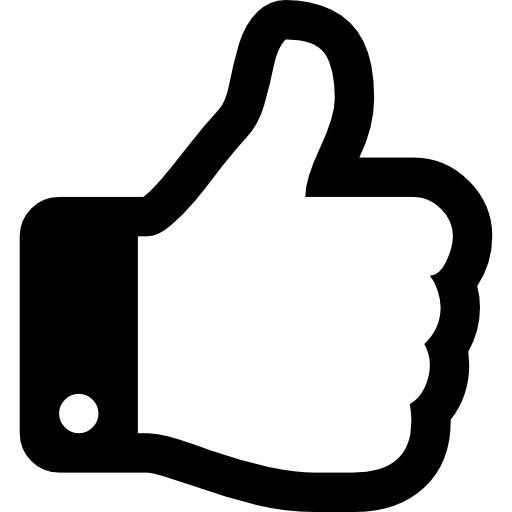
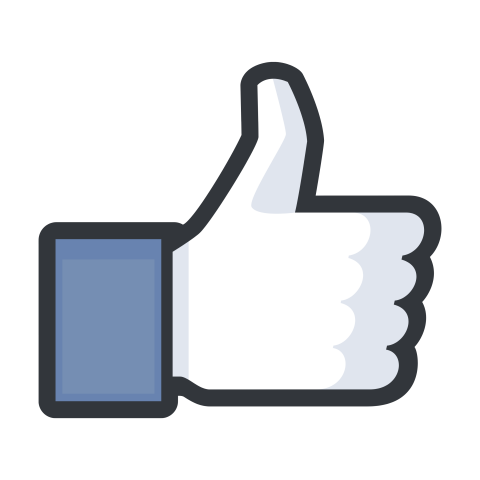
added like button, trying to get mutation to work

diff --git a/src/store/index.js b/src/store/index.js
@@ -5,39 +5,32 @@ export default createStore({
 
     state: {
         postsList: [
-            {id: 1, avatar: "person.png", name: "Andre", date: "25.09.2021", text: "Just trying out this new webpage I found", image: "mountains.jpg"},
-            
-            {id: 2, avatar: "person.png", name: "Jens", date: "01.10.2021", text: "This seems like a nice website, wonder who's designed it!", image: "forest.jpg"},
-
-            {id: 3, avatar: "person.png", name: "Julia", date: "05.10.2021", text: "I wouldn't know. But writing example text like this is kind of exhausting.", image: "Burjkhalifa.jpg"},
-
-            {id: 4, avatar: "person.png", name: "Pia", date: "12.10.2021", text: "Yeah that's right, maybe you should use Lorem ipsum?", image: ""},
-            
-            {id: 5, avatar: "person.png",name: "Amelie", date: "29.10.2021", text: "Lorem ipsum?", image: "Tartu.jpg"},
-
-            {id: 6, avatar: "person.png", name: "Nicklas", date: "01.11.2021", text : "Yeah just like this: Lorem ipsum dolor sit amet, consectetur adipiscing elit, sed do eiusmod tempor incididunt ut labore et dolore magna aliqua.", image: "scorpion.jpg"},
-
-            {id: 7, avatar: "person.png", name: "Dennis", date: "04.11.2021", text : "Damn. I like the way you speak, boy.", image: "tree.jpg"},
-
-            {id: 8, avatar: "person.png", name: "Jana", date: "19.11.2021", text: "Seems like a bunch of gibberish to me.", image: "dog.jpg"},
-
-            {id: 9, avatar: "person.png", name: "Lara", date: "25.11.2021", text : "Yeah guys, let's maybe not?", image: "cat.jpg"},
-
-            {id: 10, avatar: "person.png", name: "Torsten", date: "30.11.2021", text : "That was such a weird exchange.", image: "pool.jpg"}
+            {id: 1, avatar: "person.png", name: "Andre", date: "25.09.2021", text: "Just trying out this new webpage I found", image: "mountains.jpg", likes: 0},            
+            {id: 2, avatar: "person.png", name: "Jens", date: "01.10.2021", text: "This seems like a nice website, wonder who's designed it!", image: "forest.jpg", likes: 0},
+            {id: 3, avatar: "person.png", name: "Julia", date: "05.10.2021", text: "I wouldn't know. But writing example text like this is kind of exhausting.", image: "Burjkhalifa.jpg", likes: 0},
+            {id: 4, avatar: "person.png", name: "Pia", date: "12.10.2021", text: "Yeah that's right, maybe you should use Lorem ipsum?", image: "", likes: 0},
+            {id: 5, avatar: "person.png",name: "Amelie", date: "29.10.2021", text: "Lorem ipsum?", image: "Tartu.jpg", likes: 0},
+            {id: 6, avatar: "person.png", name: "Nicklas", date: "01.11.2021", text : "Yeah just like this: Lorem ipsum dolor sit amet, consectetur adipiscing elit, sed do eiusmod tempor incididunt ut labore et dolore magna aliqua.", image: "scorpion.jpg", likes: 0},
+            {id: 7, avatar: "person.png", name: "Dennis", date: "04.11.2021", text : "Damn. I like the way you speak, boy.", image: "tree.jpg", likes: 0},
+            {id: 8, avatar: "person.png", name: "Jana", date: "19.11.2021", text: "Seems like a bunch of gibberish to me.", image: "dog.jpg", likes: 0},
+            {id: 9, avatar: "person.png", name: "Lara", date: "25.11.2021", text : "Yeah guys, let's maybe not?", image: "cat.jpg", likes: 0},
+            {id: 10, avatar: "person.png", name: "Torsten", date: "30.11.2021", text : "That was such a weird exchange.", image: "pool.jpg", likes: 0}
             ]
     },
     getters: {
         postsList: state => {
-            return state.postsList.map(post => {
+            var postsList = state.postsList.map(post => {
                 return {
                     id: post.id,
                     avatar: post.avatar,
                     name: post.name,
                     date: post.date,
                     text: post.text,
-                    image: post.image
+                    image: post.image,
+                    likes: post.likes
                 }
             })
+            return postsList
         },
     },
     mutations: {
@@ -48,6 +41,18 @@ export default createStore({
             else{
                 document.getElementById("Dropdown").style.display="table";
             }
+        },
+        like_post: (state, {postId}) => {
+                state.postsList.forEach (post => {
+                    if(post.id == postId){
+                        post.likes += 1
+                    }
+                })
+        },
+        reset_likes: state => {
+            state.postsList.forEach (post => {
+                post.likes = 0;
+            })
         }
     },
     actions: {}

diff --git a/src/components/PostCompo.vue b/src/components/PostCompo.vue
@@ -10,16 +10,39 @@
     <div class="post-body">
       <p>{{post.text}}</p>
       <img v-if="post.image != ''" :src="require('@/assets/'+post.image)" class="post-pictures" alt="Post picture">
+      <div class="post-likes">
+        <button v-on:click="like_post">
+          <img alt="Like button" src='@/assets/thumbsup.png'>
+        </button>
+        <p>{{post.likes}} likes</p>
+      </div>
     </div>
   </div>
 </template>
 
 <script>
+import store from "@/store"
 export default {
   name: "postCompo",
-  props: [],
+  props: {
+    id: Number,
+    avatar: String,
+    name: String,
+    date: Date,
+    text: String,
+    image: String,
+    likes: Number
+  },
   data: function() {
     return {}
+  },
+  methods: {
+    like_post(){
+      store.commit("like_post", {postId: this.id})
+    },
+    reset_likes: function () {
+      this.$store.commit("reset")
+    }
   },
   computed: {
     postsList(){
@@ -55,6 +78,27 @@ export default {
   padding: 10px;
 }
 
+.post-likes {
+  display: flex;
+  flex-direction: row;
+  align-items: center;
+  justify-content: space-between;
+}
+.post-likes button{
+  padding: 0;
+  border: none;
+  background: none;
+}
+
+.post-likes button:hover {
+  cursor: pointer;
+  background:#cecfd1;
+}
+.post-likes img {
+  width: 50px;
+  height: 50px;
+}
+
 /*Post header links' backgrounds change when hovering over them.*/
 .avatar ~ a:hover { /*Applies to the name of a post (after avatar).*/
   background-color: #cecfd1;
@@ -67,8 +111,8 @@ export default {
 
 /*Sets the sizes of the posts' avatars.*/
 .avatar{
-  width: 50px;
-  height: 50px;
+  width: 40px;
+  height: 40px;
 }
 
 /*Sets the sizes of pictures in the posts.*/
